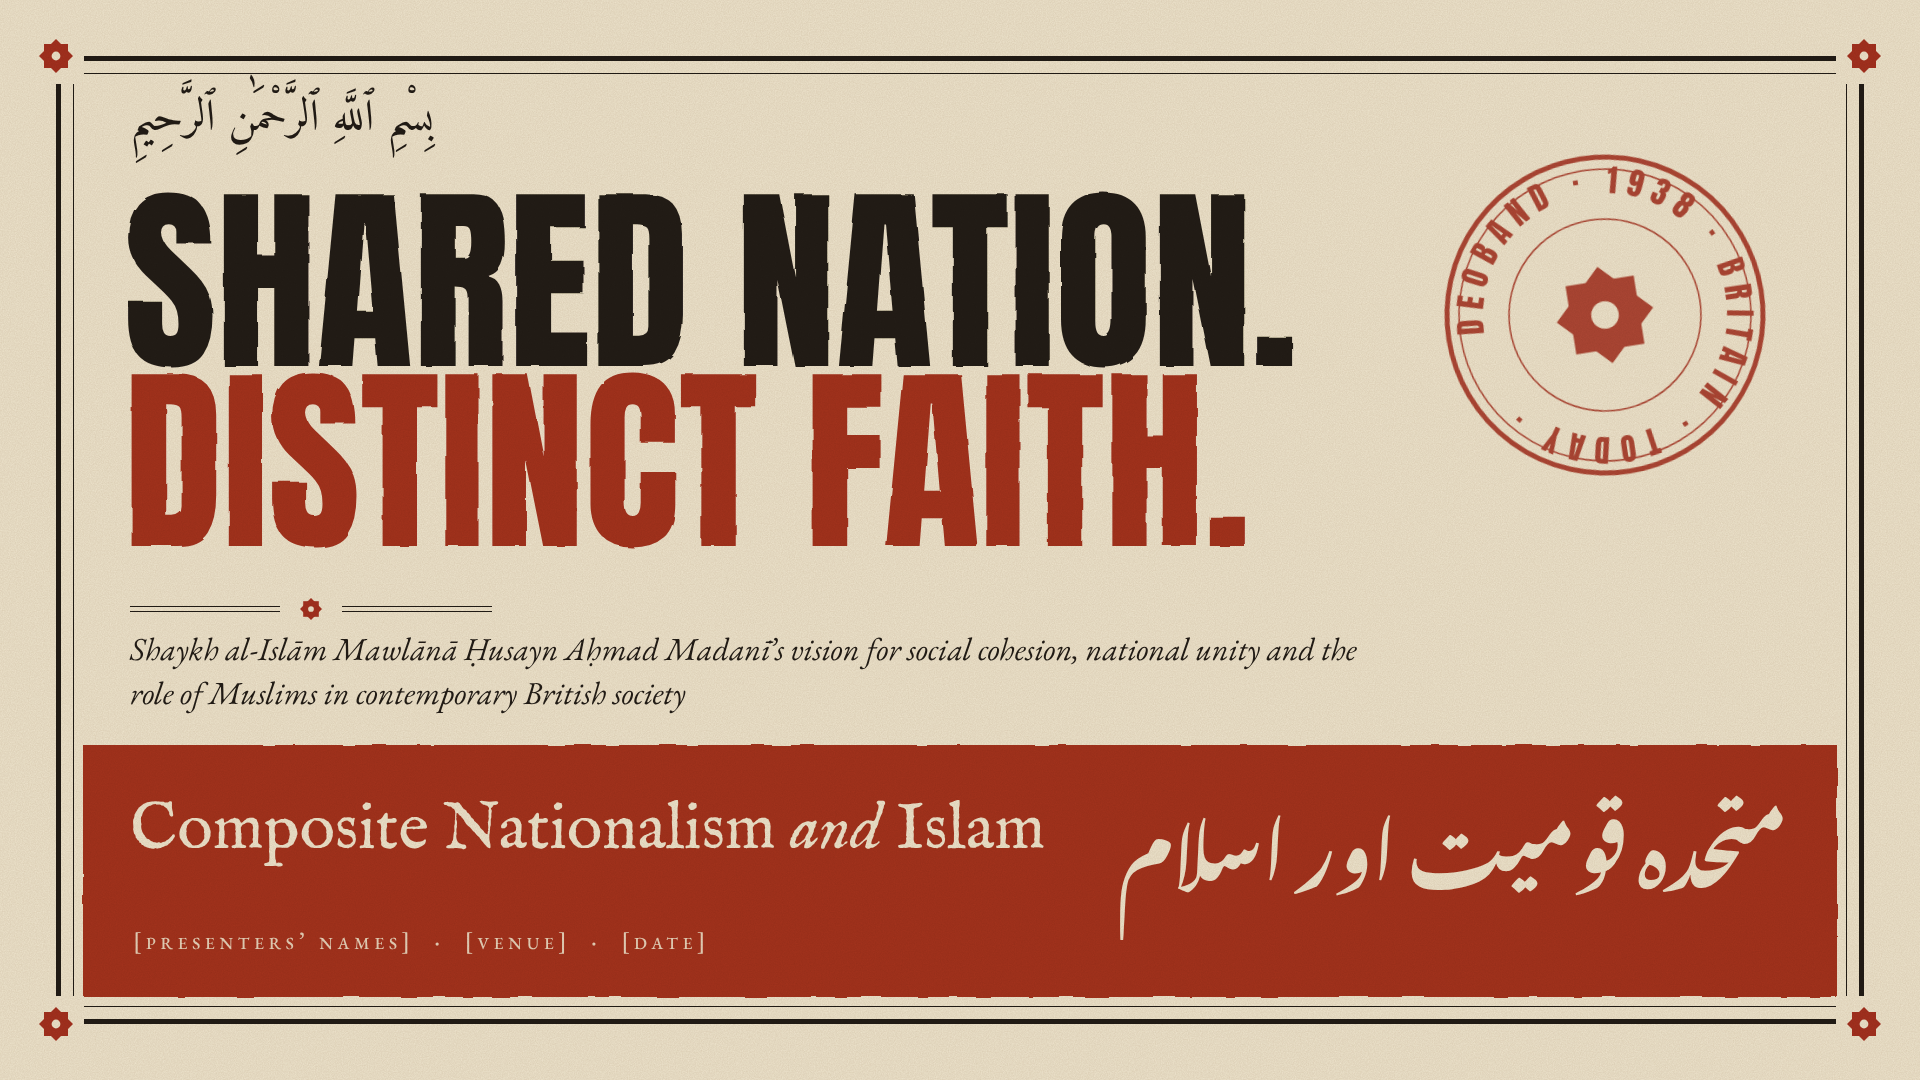
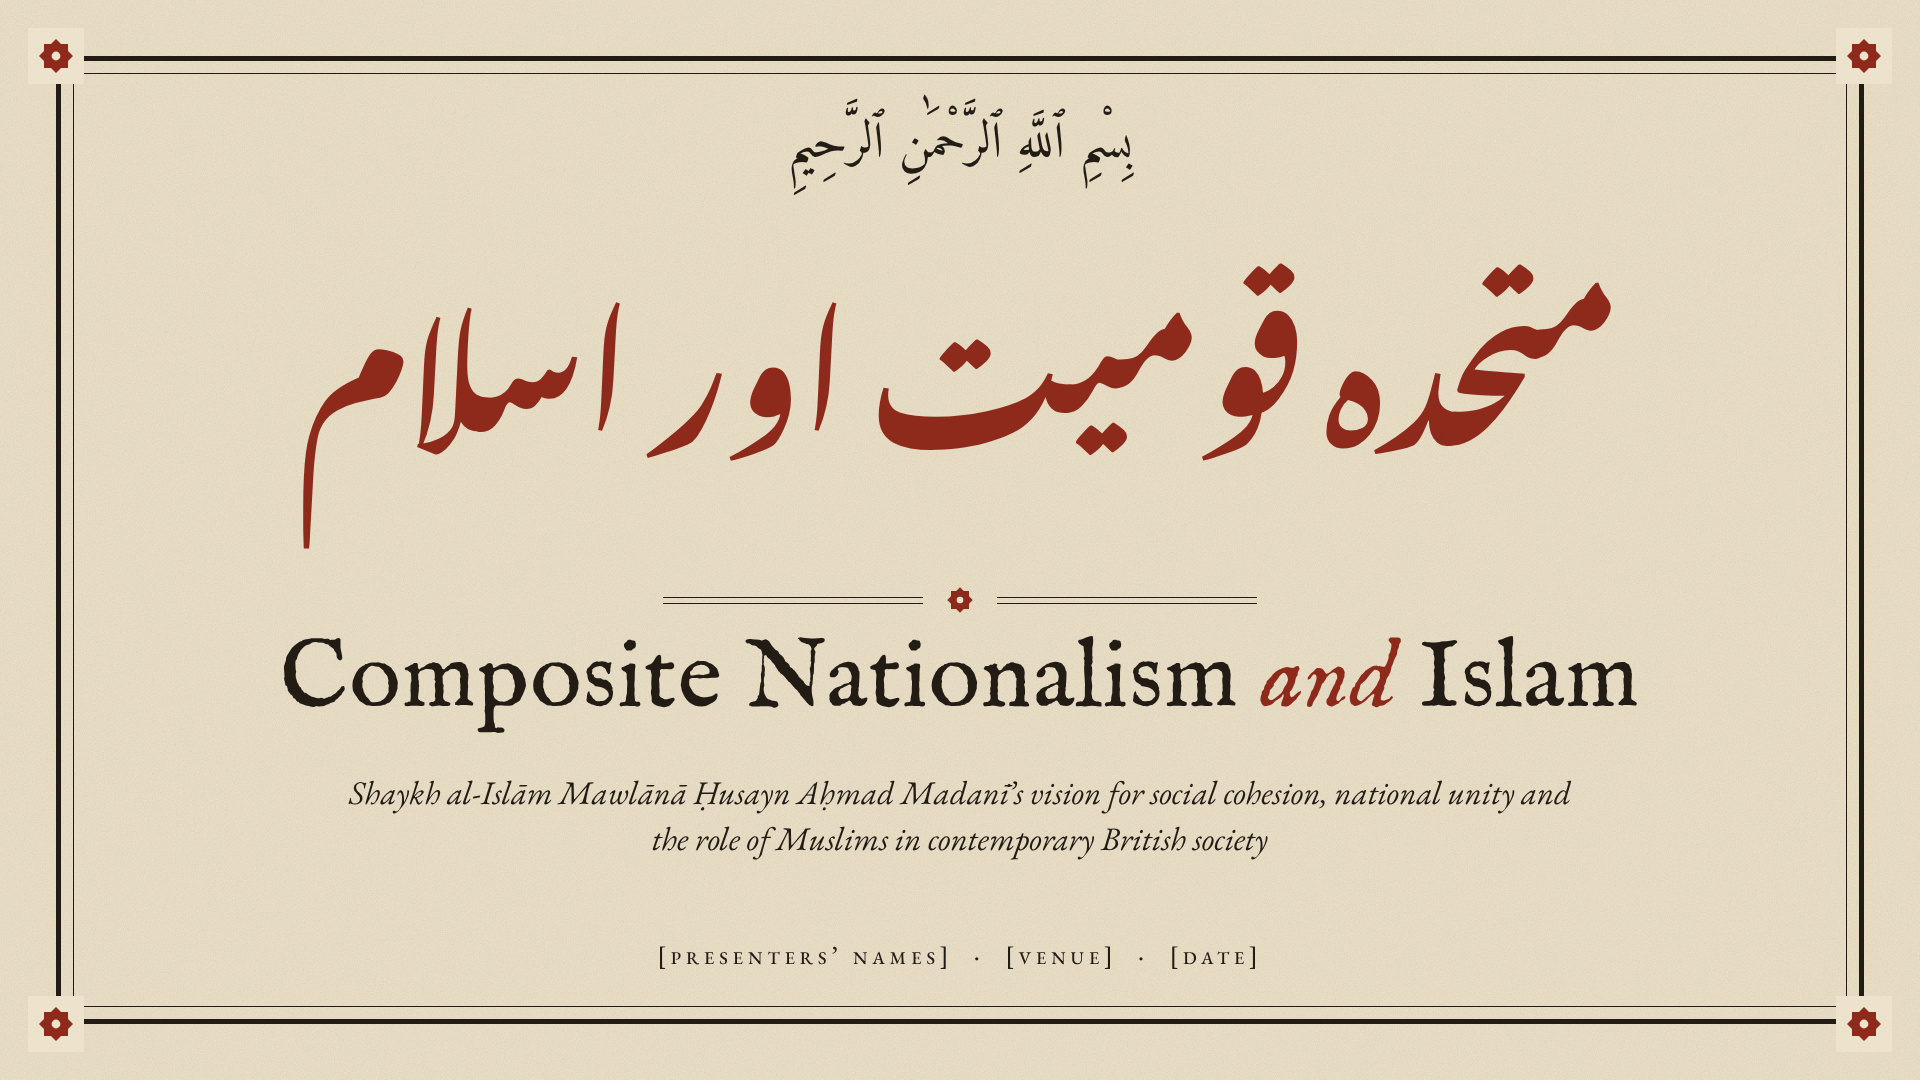
Use the lithograph title-page design for the cover
Claude-Session: https://claude.ai/code/session_01LWEpAiNUkQyLbUpVv8zZm5

diff --git a/presentation/slides/deck.html b/presentation/slides/deck.html
@@ -1,5 +1,5 @@
-<!DOCTYPE html><html lang="en"><head><meta charset="UTF-8"><meta name="viewport" content="width=device-width,initial-scale=1"><title>Composite Nationalism and Islam</title>
-<link href="https://fonts.googleapis.com/css2?family=Anton&family=Amiri&family=Noto+Nastaliq+Urdu:wght@700&family=IM+Fell+English:ital@0;1&family=EB+Garamond:ital,wght@0,500;1,400&display=swap" rel="stylesheet">
+<!DOCTYPE html><html lang="en"><head><meta charset="UTF-8"><meta name="viewport" content="width=device-width,initial-scale=1">
+<title>Composite Nationalism and Islam</title><link href="https://fonts.googleapis.com/css2?family=Amiri&family=Noto+Nastaliq+Urdu:wght@700&family=IM+Fell+English:ital@0;1&family=EB+Garamond:ital,wght@0,500;1,400&display=swap" rel="stylesheet">
 <style>/* ===========================================
    FIXED 16:9 STAGE: MANDATORY BASE STYLES
    Include this ENTIRE file in every presentation.
@@ -134,49 +134,30 @@ svg {
     }
 }
 
-/* === THEME: letterpress broadside on cream paper === */
-:root{--stage-bg:#d9cdb4;--slide-bg:#EDE3CC;--paper:#EDE3CC;--ink:#211b15;--red:#A3301E}
-.slide{background:var(--paper);color:var(--ink)}
-.grain{position:absolute;inset:0;opacity:.38;mix-blend-mode:multiply;pointer-events:none;z-index:5}
-.inked{filter:url(#ink)}
-/* frame + corner stars */
+
+:root{--stage-bg:#d9cdb4;--slide-bg:#EDE3CC;--ink:#221c15;--red:#8E2A1B}
+.slide{background:#EDE3CC;color:var(--ink)}
+.paper{position:absolute;inset:0;opacity:.35;mix-blend-mode:multiply;pointer-events:none}
 .frame{position:absolute;inset:56px;border:5px solid var(--ink)}
 .frame::after{content:"";position:absolute;inset:12px;border:1.5px solid var(--ink)}
-.corner{position:absolute;width:56px;height:56px;display:grid;place-items:center;background:var(--paper);z-index:2}
+.corner{position:absolute;width:56px;height:56px;display:grid;place-items:center;background:#EDE3CC}
 .c1{left:28px;top:28px}.c2{right:28px;top:28px}.c3{left:28px;bottom:28px}.c4{right:28px;bottom:28px}
-/* top */
-.bism{position:absolute;top:98px;left:130px;font:400 44px/1 "Amiri";direction:rtl}
-/* headline */
-.big{position:absolute;left:124px;top:192px;font:400 200px/.9 "Anton";text-transform:uppercase}
-.big span{display:block}.big .red{color:var(--red)}
-/* stamp */
-.stamp{position:absolute;right:150px;top:150px;width:330px;height:330px;transform:rotate(-9deg);opacity:.88}
-/* subtitle */
-.orn{position:absolute;left:130px;top:596px;display:flex;align-items:center;gap:18px}
-.orn i{display:block;width:150px;height:0;border-top:1.5px solid var(--ink);border-bottom:1.5px solid var(--ink);padding-top:4px}
-.sub{position:absolute;left:130px;top:628px;width:1250px;font:italic 400 32px/1.36 "EB Garamond"}
-/* red printed block */
-.block{position:absolute;left:83px;right:83px;bottom:83px;height:252px;color:var(--paper)}
-.blockbg{position:absolute;inset:0;background:var(--red)}
-.en{position:absolute;left:47px;top:52px;font:400 66px/1 "IM Fell English"}
-.en em{font-style:italic}
-.meta{position:absolute;left:50px;bottom:44px;font:500 24px/1 "EB Garamond";letter-spacing:.2em;font-variant:small-caps;text-transform:lowercase;opacity:.9}
-.urdu{position:absolute;right:50px;top:6px;font:700 76px/2.3 "Noto Nastaliq Urdu";direction:rtl}
-/* entrance */
-.r{opacity:0;transform:translateY(14px);animation:rise 1s cubic-bezier(.2,.7,.2,1) forwards}.r2{animation-delay:.25s}.r3{animation-delay:.5s}.r4{animation-delay:.8s}
-.stamp.r{transform:rotate(-9deg) scale(1.25);animation:stamp .45s cubic-bezier(.3,1.6,.5,1) 1.1s forwards}
-@keyframes rise{to{opacity:1;transform:none}}
-@keyframes stamp{to{opacity:.88;transform:rotate(-9deg) scale(1)}}
-</style></head><body><div class="deck-viewport"><div class="deck-stage" id="stage"><!-- === SLIDE 1: COVER (letterpress broadside) === -->
-<section class="slide active" data-notes="Approx. 1 minute. Bismillah, salam, thank the MP and hosts. Introduce Mawlana Madani and muttahidah qawmiyyat. Say plainly: we present a body of thought, not a political programme; the last part is Britain today and questions."><svg width="0" height="0" style="position:absolute"><filter id="ink"><feTurbulence type="fractalNoise" baseFrequency=".035" numOctaves="2" seed="4" result="t"/><feDisplacementMap in="SourceGraphic" in2="t" scale="3.5"/></filter></svg>
-<svg class="grain" width="1920" height="1080"><filter id="n"><feTurbulence type="fractalNoise" baseFrequency=".85" numOctaves="3" stitchTiles="stitch"/><feColorMatrix values="0 0 0 0 .38  0 0 0 0 .28  0 0 0 0 .18  0 0 0 .6 0"/></filter><rect width="100%" height="100%" filter="url(#n)"/></svg><div class="frame"></div><div class="corner c1"><svg viewBox="-50 -50 100 100" width="40" height="40"><g fill="#A3301E"><rect x="-30" y="-30" width="60" height="60"/><rect x="-30" y="-30" width="60" height="60" transform="rotate(45)"/></g><circle r="11" fill="#EDE3CC"/></svg></div><div class="corner c2"><svg viewBox="-50 -50 100 100" width="40" height="40"><g fill="#A3301E"><rect x="-30" y="-30" width="60" height="60"/><rect x="-30" y="-30" width="60" height="60" transform="rotate(45)"/></g><circle r="11" fill="#EDE3CC"/></svg></div><div class="corner c3"><svg viewBox="-50 -50 100 100" width="40" height="40"><g fill="#A3301E"><rect x="-30" y="-30" width="60" height="60"/><rect x="-30" y="-30" width="60" height="60" transform="rotate(45)"/></g><circle r="11" fill="#EDE3CC"/></svg></div><div class="corner c4"><svg viewBox="-50 -50 100 100" width="40" height="40"><g fill="#A3301E"><rect x="-30" y="-30" width="60" height="60"/><rect x="-30" y="-30" width="60" height="60" transform="rotate(45)"/></g><circle r="11" fill="#EDE3CC"/></svg></div>
+.bism{position:absolute;top:120px;left:0;right:0;text-align:center;font:400 50px/1 "Amiri";direction:rtl}
+.urdu{position:absolute;top:205px;left:0;right:0;text-align:center;font:700 150px/1.9 "Noto Nastaliq Urdu";color:var(--red);direction:rtl}
+.orn{position:absolute;top:585px;left:0;right:0;display:flex;justify-content:center;align-items:center;gap:22px}
+.orn i{display:block;width:260px;height:0;border-top:1.5px solid var(--ink);border-bottom:1.5px solid var(--ink);padding-top:5px}
+.en{position:absolute;top:630px;left:0;right:0;text-align:center;font:400 96px/1.05 "IM Fell English";letter-spacing:.01em}
+.en em{font-style:italic;color:var(--red)}
+.sub{position:absolute;top:770px;left:330px;right:330px;text-align:center;font:italic 400 33px/1.4 "EB Garamond"}
+.foot{position:absolute;bottom:112px;left:0;right:0;text-align:center;font:500 25px/1 "EB Garamond";letter-spacing:.2em;font-variant:small-caps;text-transform:lowercase}
+
+.r{opacity:0;transform:translateY(16px);animation:rise 1s cubic-bezier(.2,.7,.2,1) forwards}.r2{animation-delay:.25s}.r3{animation-delay:.5s}.r4{animation-delay:.8s}
+@keyframes rise{to{opacity:1;transform:none}}</style></head>
+<body><div class="deck-viewport"><div class="deck-stage" id="stage"><!-- === SLIDE 1: COVER (lithograph title page) === -->
+<section class="slide active" data-notes="Approx. 1 minute. Bismillah, salam, thank the MP and hosts. Introduce Mawlana Madani and muttahidah qawmiyyat. Say plainly: we present a body of thought, not a political programme; the last part is Britain today and questions."><svg class="paper" width="1920" height="1080"><filter id="n"><feTurbulence type="fractalNoise" baseFrequency=".9" numOctaves="3" stitchTiles="stitch"/><feColorMatrix values="0 0 0 0 .4  0 0 0 0 .3  0 0 0 0 .2  0 0 0 .55 0"/></filter><rect width="100%" height="100%" filter="url(#n)"/></svg><div class="frame"></div><div class="corner c1"><svg viewBox="-50 -50 100 100" width="40" height="40"><g fill="#8E2A1B"><rect x="-30" y="-30" width="60" height="60"/><rect x="-30" y="-30" width="60" height="60" transform="rotate(45)"/></g><circle r="11" fill="#EDE3CC"/></svg></div><div class="corner c2"><svg viewBox="-50 -50 100 100" width="40" height="40"><g fill="#8E2A1B"><rect x="-30" y="-30" width="60" height="60"/><rect x="-30" y="-30" width="60" height="60" transform="rotate(45)"/></g><circle r="11" fill="#EDE3CC"/></svg></div><div class="corner c3"><svg viewBox="-50 -50 100 100" width="40" height="40"><g fill="#8E2A1B"><rect x="-30" y="-30" width="60" height="60"/><rect x="-30" y="-30" width="60" height="60" transform="rotate(45)"/></g><circle r="11" fill="#EDE3CC"/></svg></div><div class="corner c4"><svg viewBox="-50 -50 100 100" width="40" height="40"><g fill="#8E2A1B"><rect x="-30" y="-30" width="60" height="60"/><rect x="-30" y="-30" width="60" height="60" transform="rotate(45)"/></g><circle r="11" fill="#EDE3CC"/></svg></div>
 <div class="bism r">بِسْمِ ٱللَّهِ ٱلرَّحْمَٰنِ ٱلرَّحِيمِ</div>
-<div class="big inked r r2"><span>Shared nation.</span><span class="red">Distinct faith.</span></div>
-<svg class="stamp r" viewBox="0 0 330 330"><defs><path id="ring" d="M165 165 m-122 0 a122 122 0 1 1 244 0 a122 122 0 1 1 -244 0"/></defs>
-<g fill="none" stroke="#A3301E"><circle cx="165" cy="165" r="158" stroke-width="5"/><circle cx="165" cy="165" r="146" stroke-width="1.5"/><circle cx="165" cy="165" r="96" stroke-width="1.5"/></g>
-<text font-family="Anton" font-size="31" letter-spacing="8.6" fill="#A3301E"><textPath href="#ring">DEOBAND · 1938 · BRITAIN · TODAY ·</textPath></text>
-<g transform="translate(165 165) scale(1.15)"><g fill="#A3301E"><rect x="-30" y="-30" width="60" height="60"/><rect x="-30" y="-30" width="60" height="60" transform="rotate(45)"/></g><circle r="12" fill="#EDE3CC"/></g></svg>
-<div class="orn r r3"><i></i><svg viewBox="-50 -50 100 100" width="26" height="26"><g fill="#A3301E"><rect x="-30" y="-30" width="60" height="60"/><rect x="-30" y="-30" width="60" height="60" transform="rotate(45)"/></g><circle r="11" fill="#EDE3CC"/></svg><i></i></div>
+<div class="urdu r r2">متحدہ قومیت اور اسلام</div>
+<div class="orn r r3"><i></i><svg viewBox="-50 -50 100 100" width="30" height="30"><g fill="#8E2A1B"><rect x="-30" y="-30" width="60" height="60"/><rect x="-30" y="-30" width="60" height="60" transform="rotate(45)"/></g><circle r="11" fill="#EDE3CC"/></svg><i></i></div>
+<div class="en r r3">Composite Nationalism <em>and</em> Islam</div>
 <div class="sub r r3">Shaykh al-Islām Mawlānā Ḥusayn Aḥmad Madanī’s vision for social cohesion, national unity and the role of Muslims in contemporary British society</div>
-<div class="block r r4"><div class="blockbg inked"></div><div class="en">Composite Nationalism <em>and</em> Islam</div><div class="meta">[Presenters’ names] &nbsp;·&nbsp; [Venue] &nbsp;·&nbsp; [Date]</div><div class="urdu">متحدہ قومیت اور اسلام</div></div></section></div></div>
-<script>(function(){const s=document.getElementById('stage');function f(){const k=Math.min(innerWidth/1920,innerHeight/1080);s.style.transform=`translate(${(innerWidth-1920*k)/2}px,${(innerHeight-1080*k)/2}px) scale(${k})`}addEventListener('resize',f);f()})();</script></body></html>
+<div class="foot r r4">[Presenters’ names] &nbsp;·&nbsp; [Venue] &nbsp;·&nbsp; [Date]</div></section></div></div><script>(function(){const s=document.getElementById('stage');function f(){const k=Math.min(innerWidth/1920,innerHeight/1080);s.style.transform=`translate(${(innerWidth-1920*k)/2}px,${(innerHeight-1080*k)/2}px) scale(${k})`}addEventListener('resize',f);f()})();</script></body></html>
